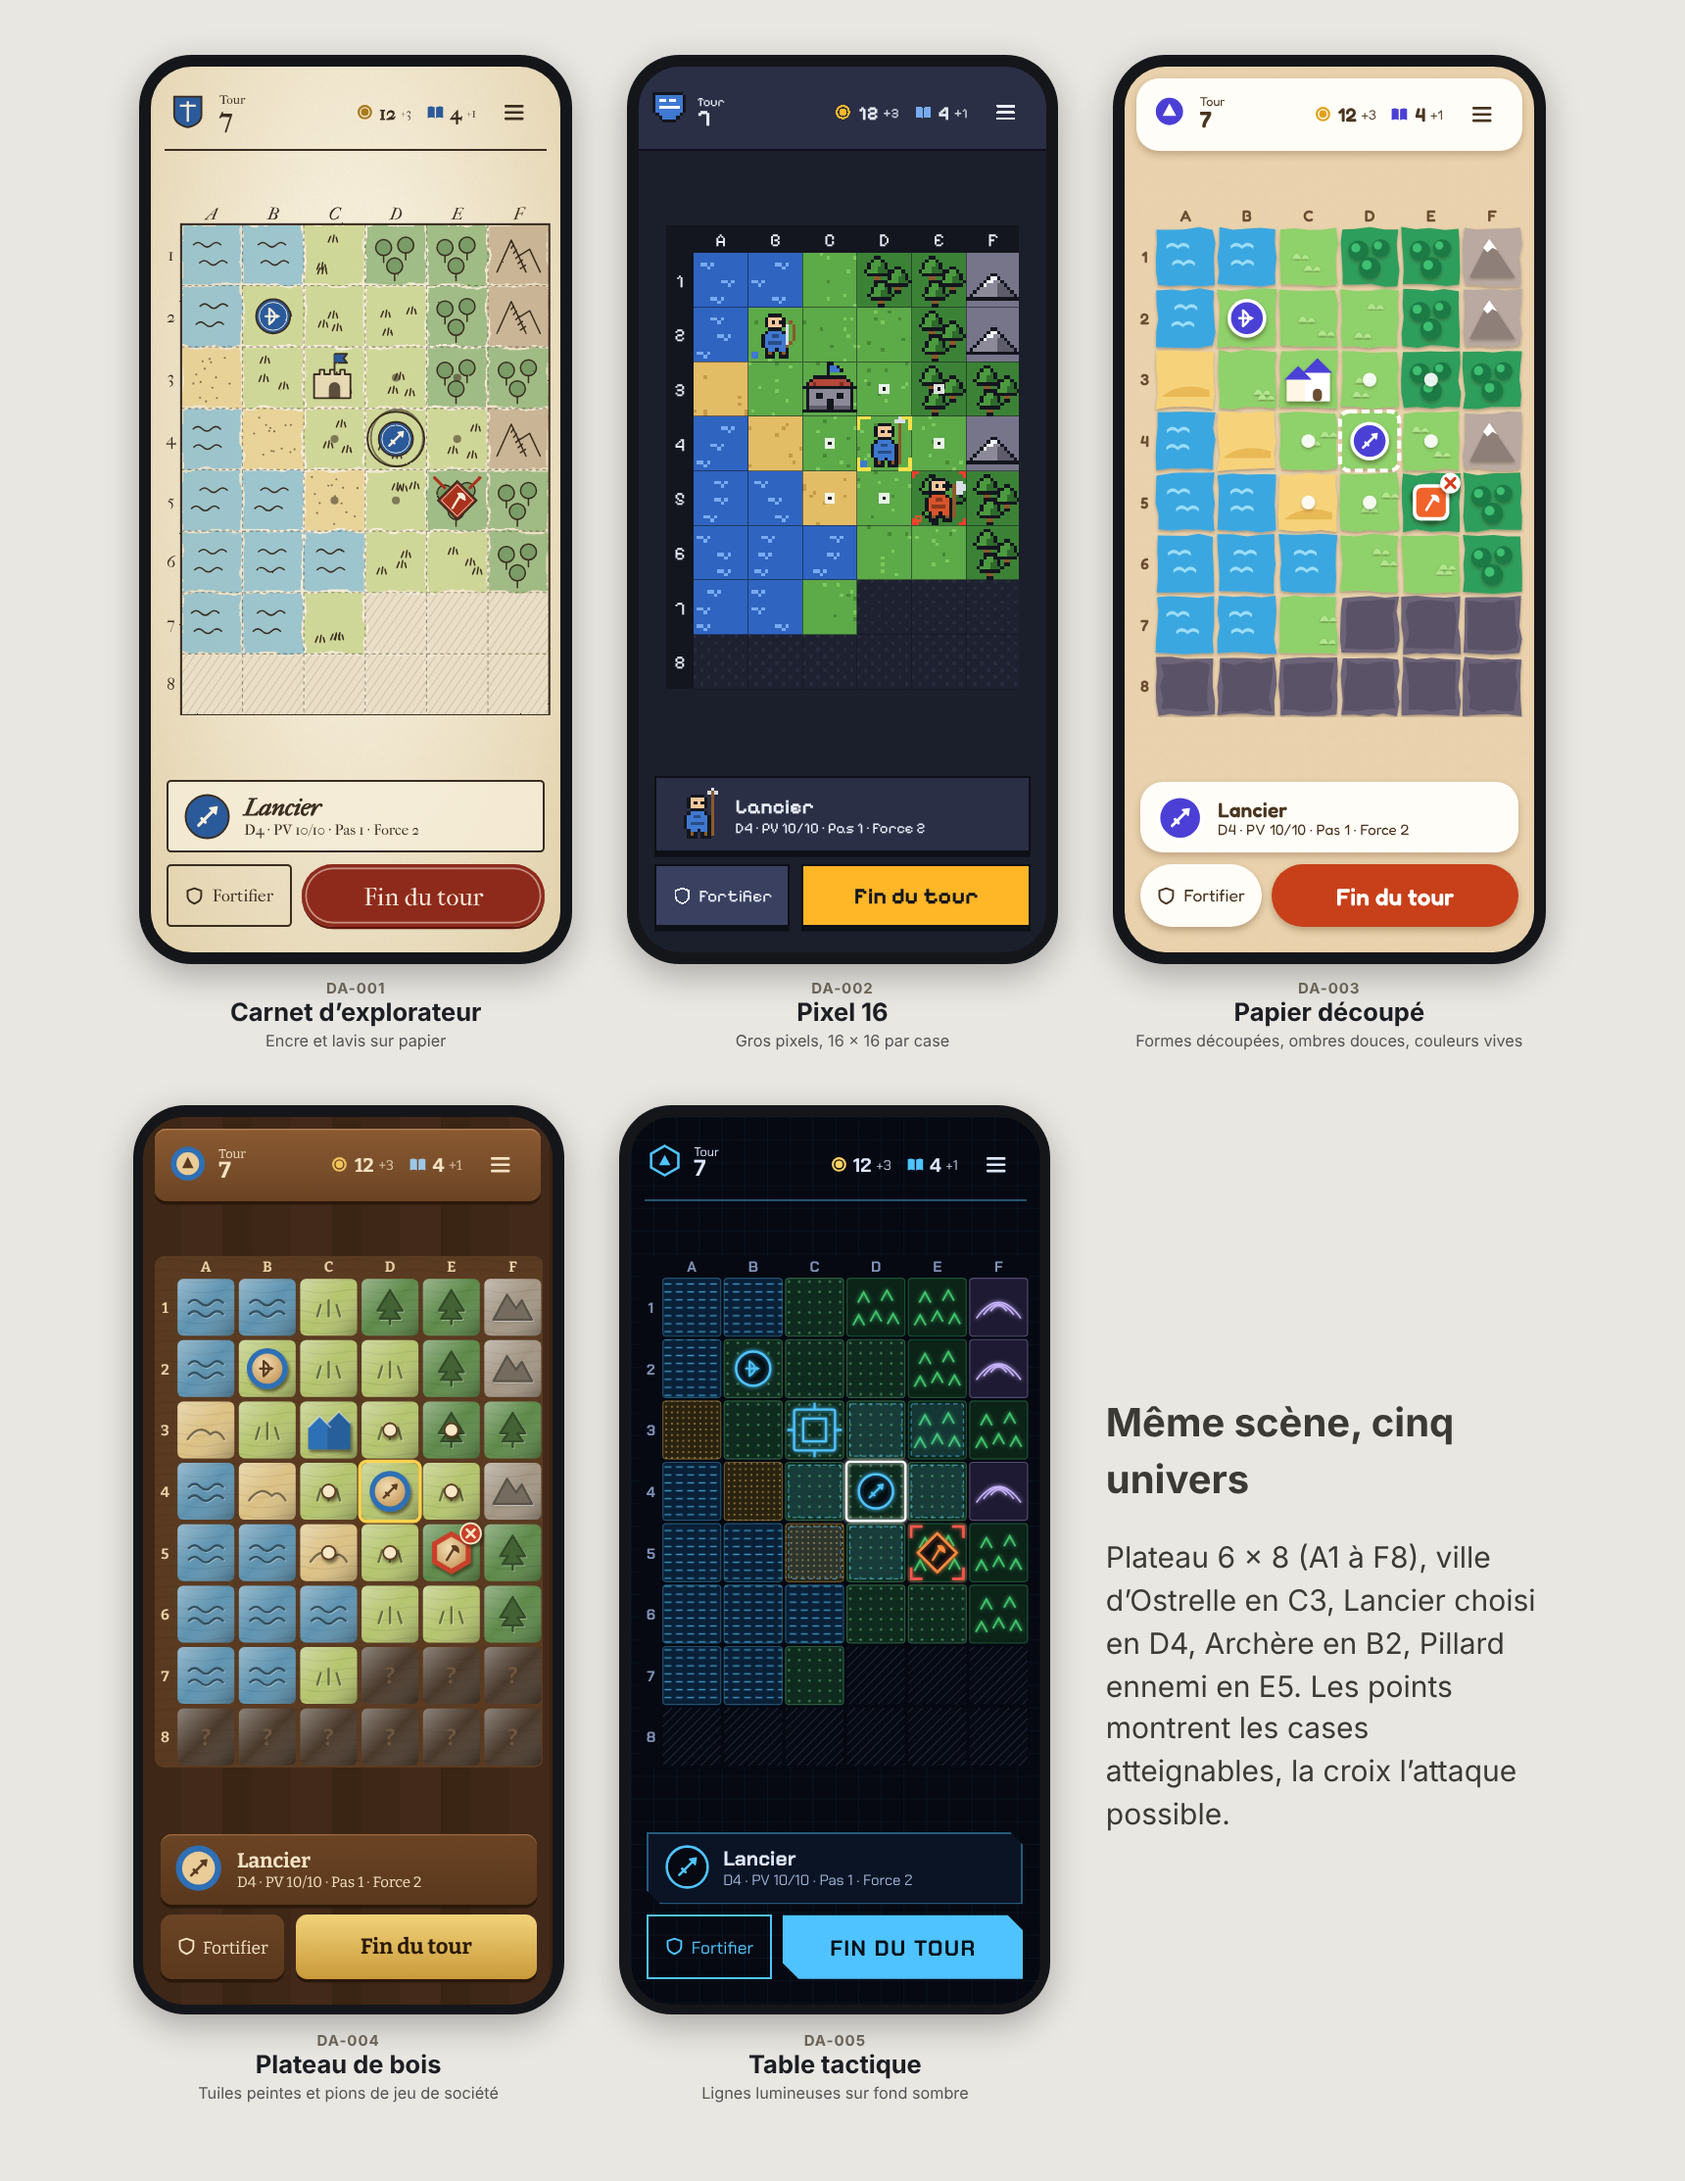
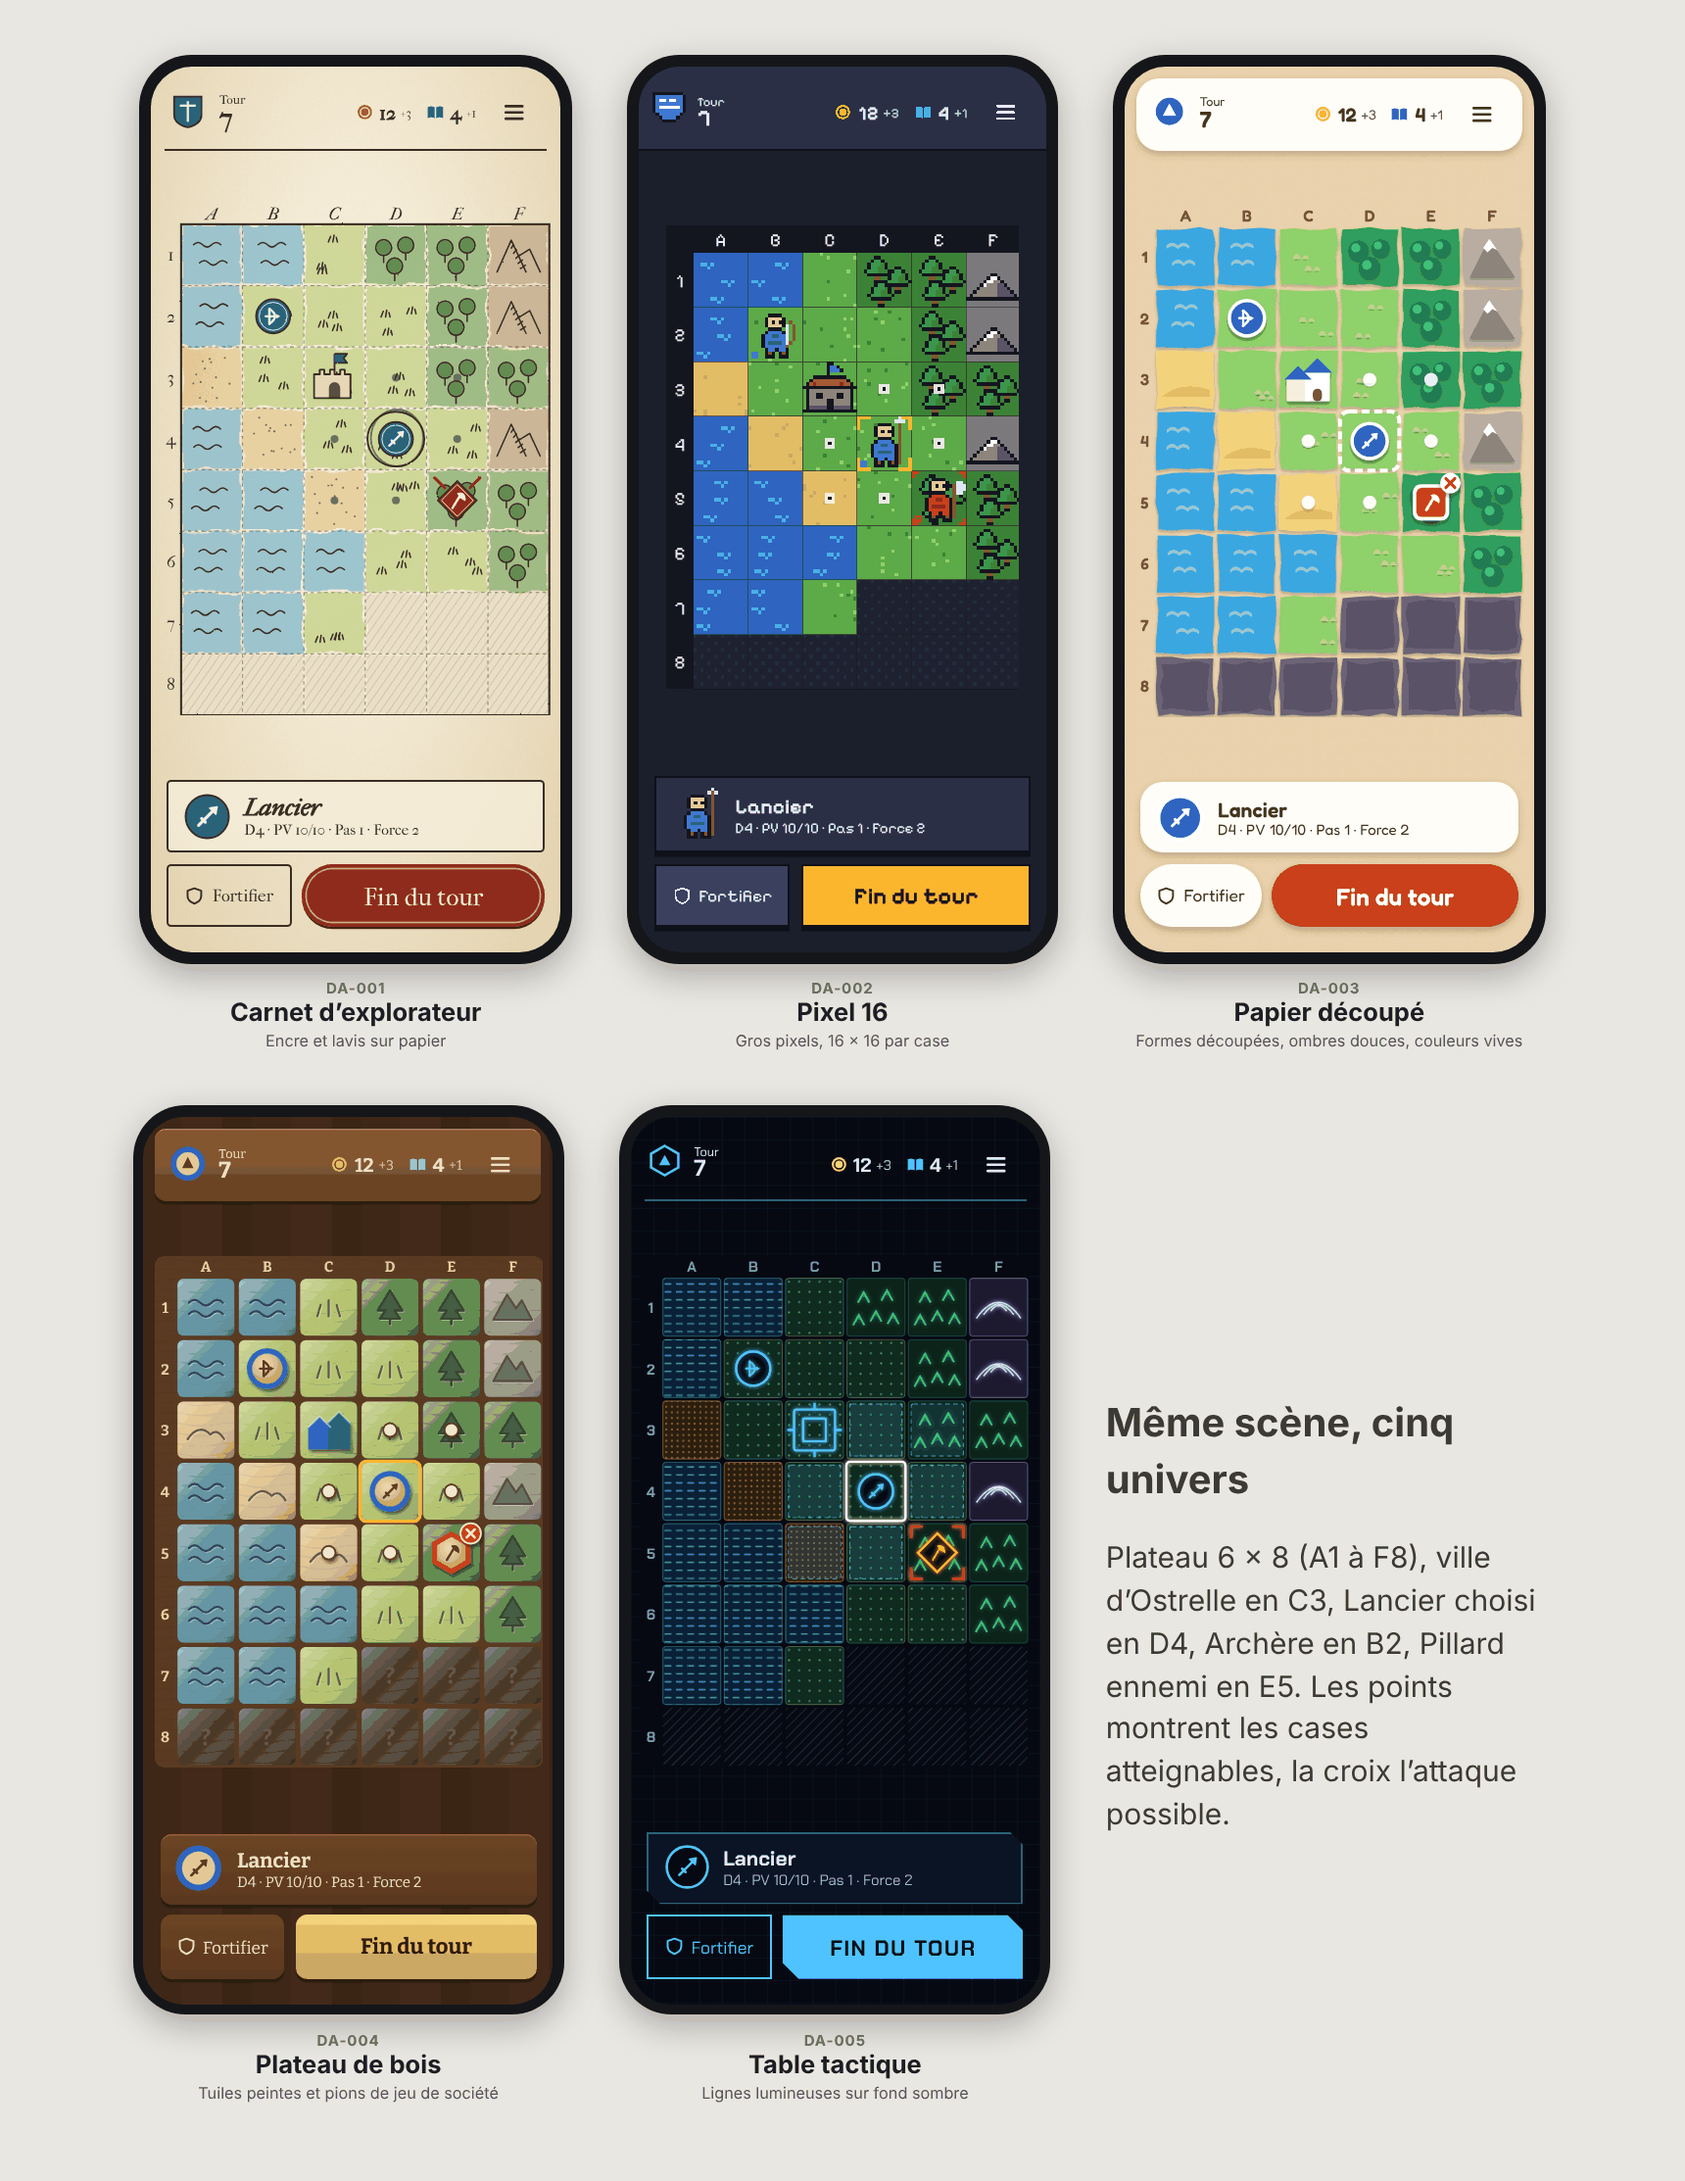
Direction artistique : catalogue.json pour la page de choix, images sous 1 Mo
Claude-Session: https://claude.ai/code/session_01EL3qoQJ13swaLjB8PHen6R

diff --git a/docs/direction-artistique/JOURNAL.md b/docs/direction-artistique/JOURNAL.md
@@ -2,6 +2,15 @@
 
 > Entrée la plus récente en haut. Gabarit de `docs/JOURNAL.md`.
 
+## 2026-11-27 · Catalogue au format de la page de choix
+
+- **Auteur** : Claude, session S6
+- **Branche et commit** : `s6-direction-artistique`, voir `git log`
+- **Objectif** : demande de la session maître : fichier `catalogue.json` pour la page où l'utilisateur coche ses choix.
+- **Réalisé** : `catalogue.json` (12 idées, 3 questions, une image par option) ; DA-000 et DA-001 réduites à 256 couleurs pour passer sous 1 Mo (1,5 et 1,3 Mo avant, 0,3 et 0,5 Mo après).
+- **Vérifications** : `python3 -m json.tool` passe ; chaque chemin d'image existe ; limites de mots contrôlées par script ; DA-001 réduite regardée, pas de défaut visible.
+- **Prochaine étape** : attendre les choix de l'utilisateur.
+
 ## 2026-11-27 · Premiers aperçus : cinq styles, quatre palettes, trois interfaces
 
 - **Auteur** : Claude, session S6

diff --git a/docs/direction-artistique/README.md b/docs/direction-artistique/README.md
@@ -30,3 +30,9 @@ node source/rendu.js <chemin>/node_modules/@fontsource
 ```
 
 Les polices (licence SIL OFL 1.1) sont copiées dans `source/fonts/`, qui n'est pas versionné.
+
+`DA-000` et `DA-001` sont ensuite réduites à 256 couleurs (Pillow, tramage) pour rester sous 1 Mo.
+
+## Catalogue pour la page de choix
+
+`catalogue.json` reprend les idées et les questions au format demandé par la session maître.
